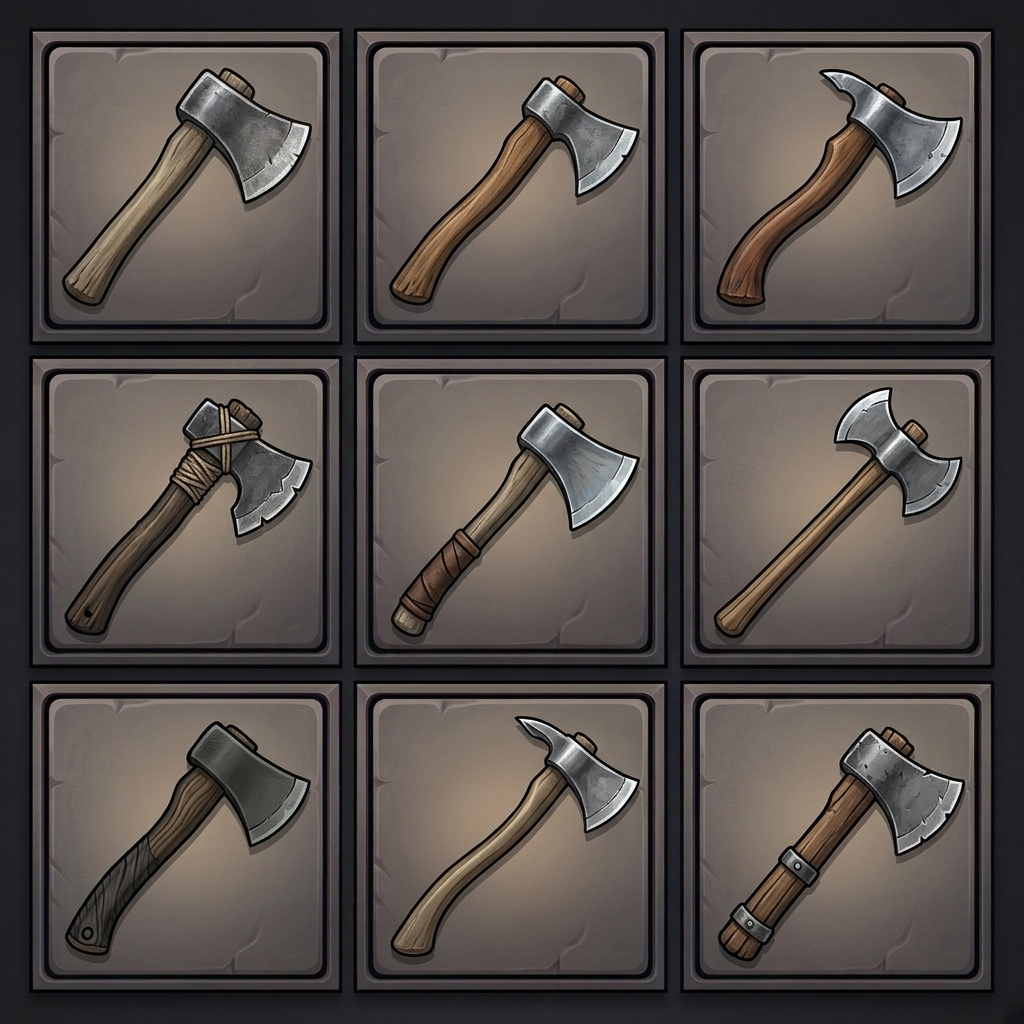
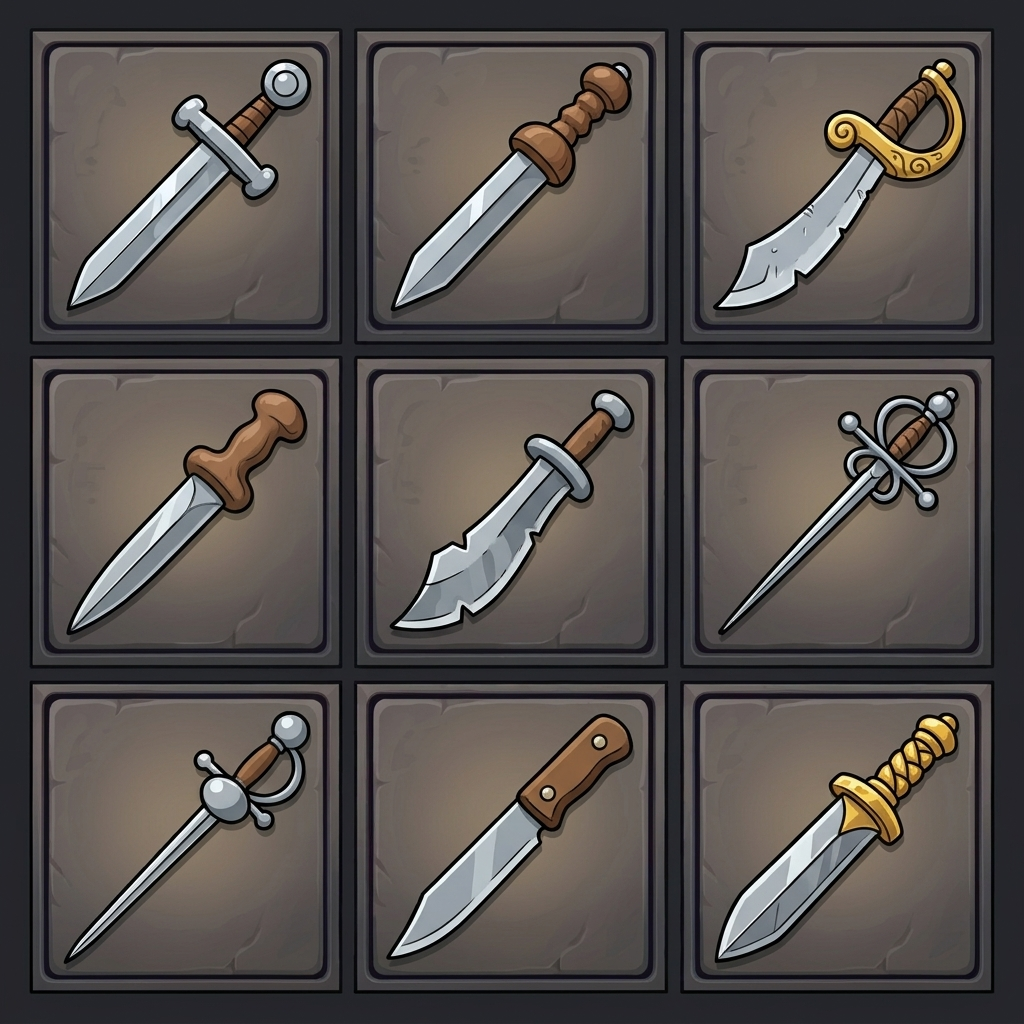
add bunch of item images

diff --git a/src/item-prompt.md b/src/item-prompt.md
@@ -1,3 +1,7 @@
+в таком же стиле нарисуй луки. Редкость - простые. Фон, плашки и стилистику cartoon - не трогай
+
+сделай их cartoon. Фон и плашки не трогай и не меняй!
+
 A 3x3 grid of 9 different game icons featuring [ITEMS], RPG item icon style, clean vector-style digital art, bold dark outlines, soft hand-drawn textures, smooth gradient shading, stylized fantasy design. Materials can be different. Background 100% same as on reference image. Clean composition, centering the object, 2D game asset, high quality, casual mobile game art, cartoon style.
 
 
